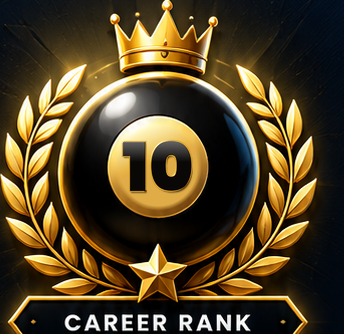
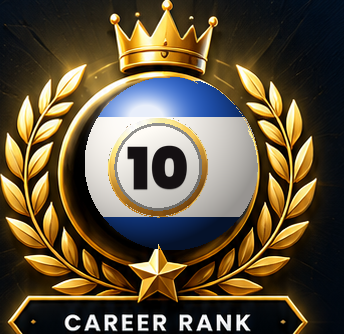
v14-49: real colored Career balls, crown only on 8-10

Changed region(s): [[0.2326, 0.2096, 0.7558, 0.7485]]

diff --git a/js/progression/badge.js b/js/progression/badge.js
@@ -26,9 +26,9 @@ export function championSVG(opts = {}) {
   return `<svg class="ballBadge champ ${opts.cls || ''}" data-ball="max" viewBox="0 0 100 100" width="${size}" height="${size}" role="img" aria-label="${esc(opts.title || 'Max rank')}"><defs><radialGradient id="${id}s" cx="35%" cy="30%" r="75%"><stop offset="0" stop-color="#fff" stop-opacity=".6"/><stop offset="1" stop-color="#000" stop-opacity=".35"/></radialGradient></defs><circle cx="50" cy="50" r="47" fill="none" stroke="#ffc75b" stroke-width="5"/><circle cx="50" cy="50" r="41" fill="#f5f7fa"/><path d="M30 60 L33 38 L42 49 L50 33 L58 49 L67 38 L70 60 Z" fill="#ffc75b" stroke="#8a6a12" stroke-width="2" stroke-linejoin="round"/><rect x="30" y="61" width="40" height="7" rx="2" fill="#ffc75b" stroke="#8a6a12" stroke-width="2"/><circle cx="50" cy="50" r="41" fill="url(#${id}s)"/></svg>`;
 }
 /**
- * Career rank emblem: the same crowned-8 artwork, one ball per rank.
+ * Career rank emblem: the real pool ball for that rank (yellow 1 through striped 10).
  * Rookie is the 1-ball through Champion the 10-ball. Balls 1–7 have no crown.
- * Balls 8, 9, and 10 keep that crown. This is the rank, not the level ball inside it.
+ * Balls 8, 9, and 10 keep the crowned 8-ball's crown. This is the rank, not the level ball inside it.
  */
 const CAREER_EMBLEM_NAMES = ['Rookie', 'Club Player', 'Shooter', 'Competitor', 'Advanced', 'Expert', 'Master', 'Elite', 'Pro', 'Champion'];
 export function careerEmblemBall(status) {

diff --git a/sw.js b/sw.js
@@ -1,4 +1,4 @@
-const CACHE = 'pool-iq-v14-48';
+const CACHE = 'pool-iq-v14-49';
 const ASSETS = [
   './',
   './index.html',

diff --git a/README.md b/README.md
@@ -28,6 +28,7 @@ Shot Simulator simplification. Playing-surface sizes (ball stays 2.25 in): 7 ft 
 - Cache `pool-iq-v14-2`, app version 14.
 - v14-1: 8-ball runout plays the group (not the 1-ball), shows a breakout for a tied-up ball, 3D is a low view from behind the cue ball, and full screen is the table plus EXIT.
 - v14-2: 3D view is a shaded table from behind the cue ball (wood rails, lit cloth, round balls, cue).
+- v14-49: Career emblems are the real ball for that rank, in its own color, with the same laurel frame. Rookie is a yellow 1-ball through Master a maroon 7-ball, none of them crowned and none of them a black ball with a new number. Elite stays the black 8. Pro is a yellow-striped 9 and Champion a blue-striped 10, and only those three keep the crown. Numbers sit in a white circle except the black 8, which stays the approved gold circle. Drill Rank, Ball Pocketing, the Drill Sets photo, names, XP, and progression are unchanged. Cache `pool-iq-v14-49`.
 - v14-48: Career emblems use the same 8-ball artwork, one ball per rank: Rookie 1 through Champion 10. Balls 1–7 have no crown; Elite, Pro, and Champion (8, 9, and 10) keep that crown. Home, Career, and Profile use the rank’s ball. Drill Rank chalk and Ball Pocketing cues are unchanged. Rank names, XP thresholds, and progression are unchanged. The Drill Sets & Exams card is the new photo (gray shirt, red sleeves), cropped to the same short wide frame so the face, the cue, and the ball stay in view. Cache `pool-iq-v14-48`.
 - v14-47: The Drills photo card and the page it opens are named Drill Sets & Exams. The photo is a shorter wide strip (Efren Reyes stays) with a thin border and the name in a small chip. The list is still Exam I, Exam II Bachelors, Exam II Doctorate, and Safety Master. Safety Master drills stay out of All and the shot categories. No Career Rank XP change. Cache `pool-iq-v14-47`.
 - v14-46: Drills opens with one Courses photo (Efren Reyes, 2012 World 9-Ball, Vinod Divakaran / Doha Stadium Plus Qatar, Wikimedia Commons). The course list is Exam I, Exam II Bachelors, Exam II Doctorate, and Safety Master. Safety Master drills are only in that course, not in All or the shot categories. Exam drills stay in their categories. No Career Rank XP change. Cache `pool-iq-v14-46`.
